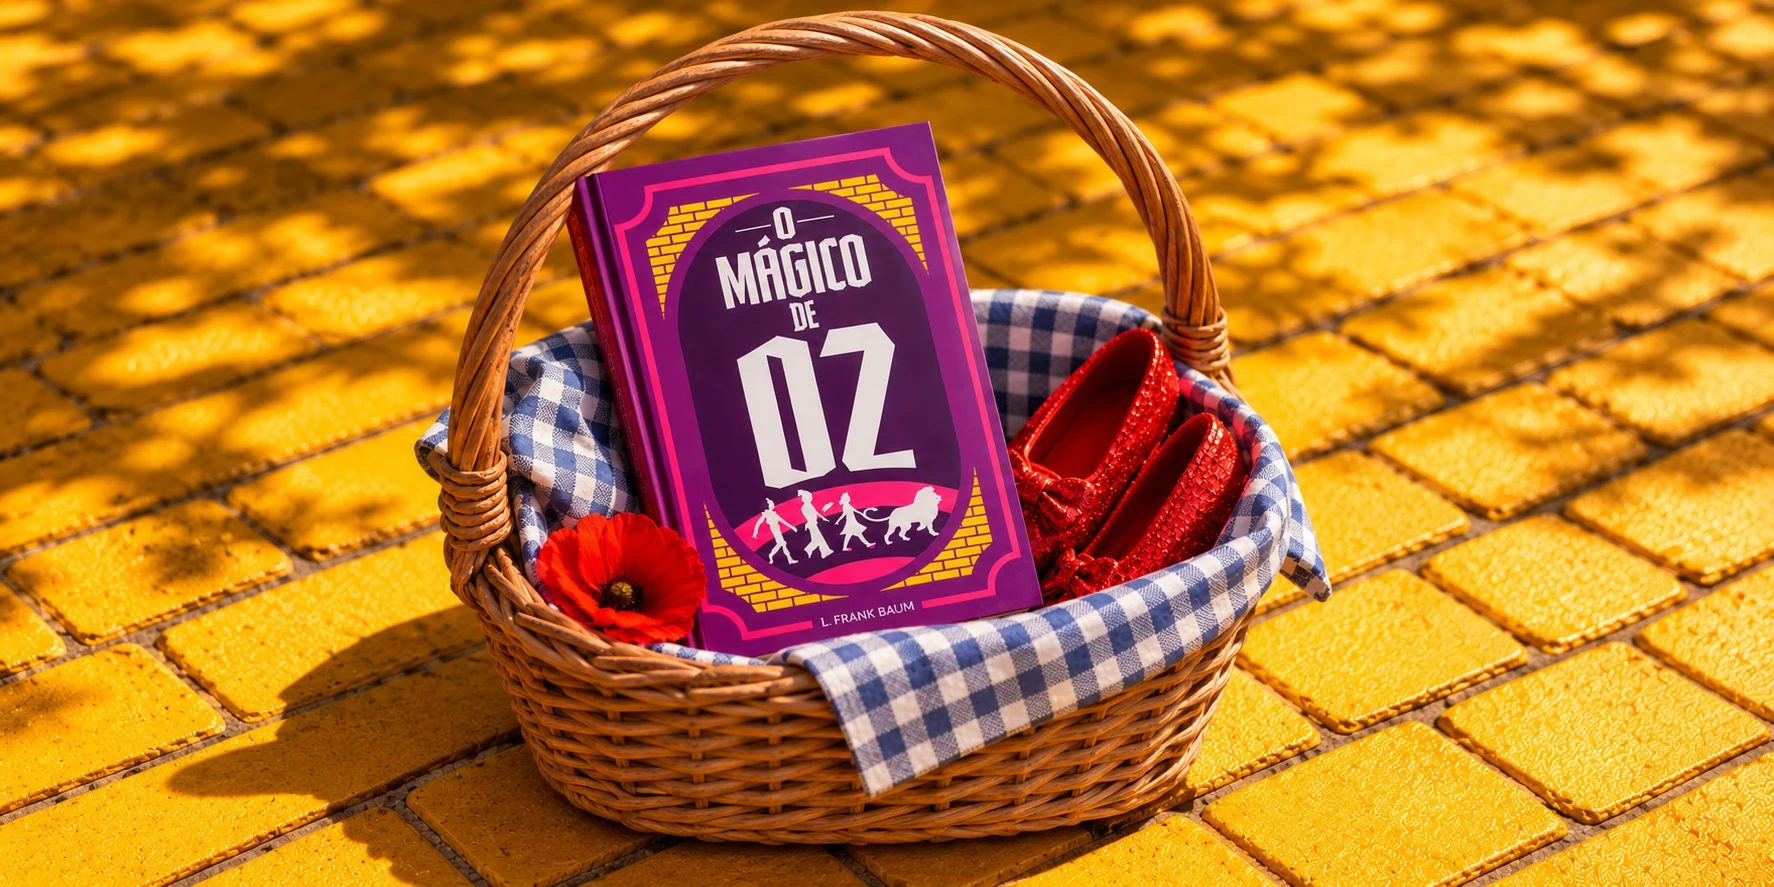
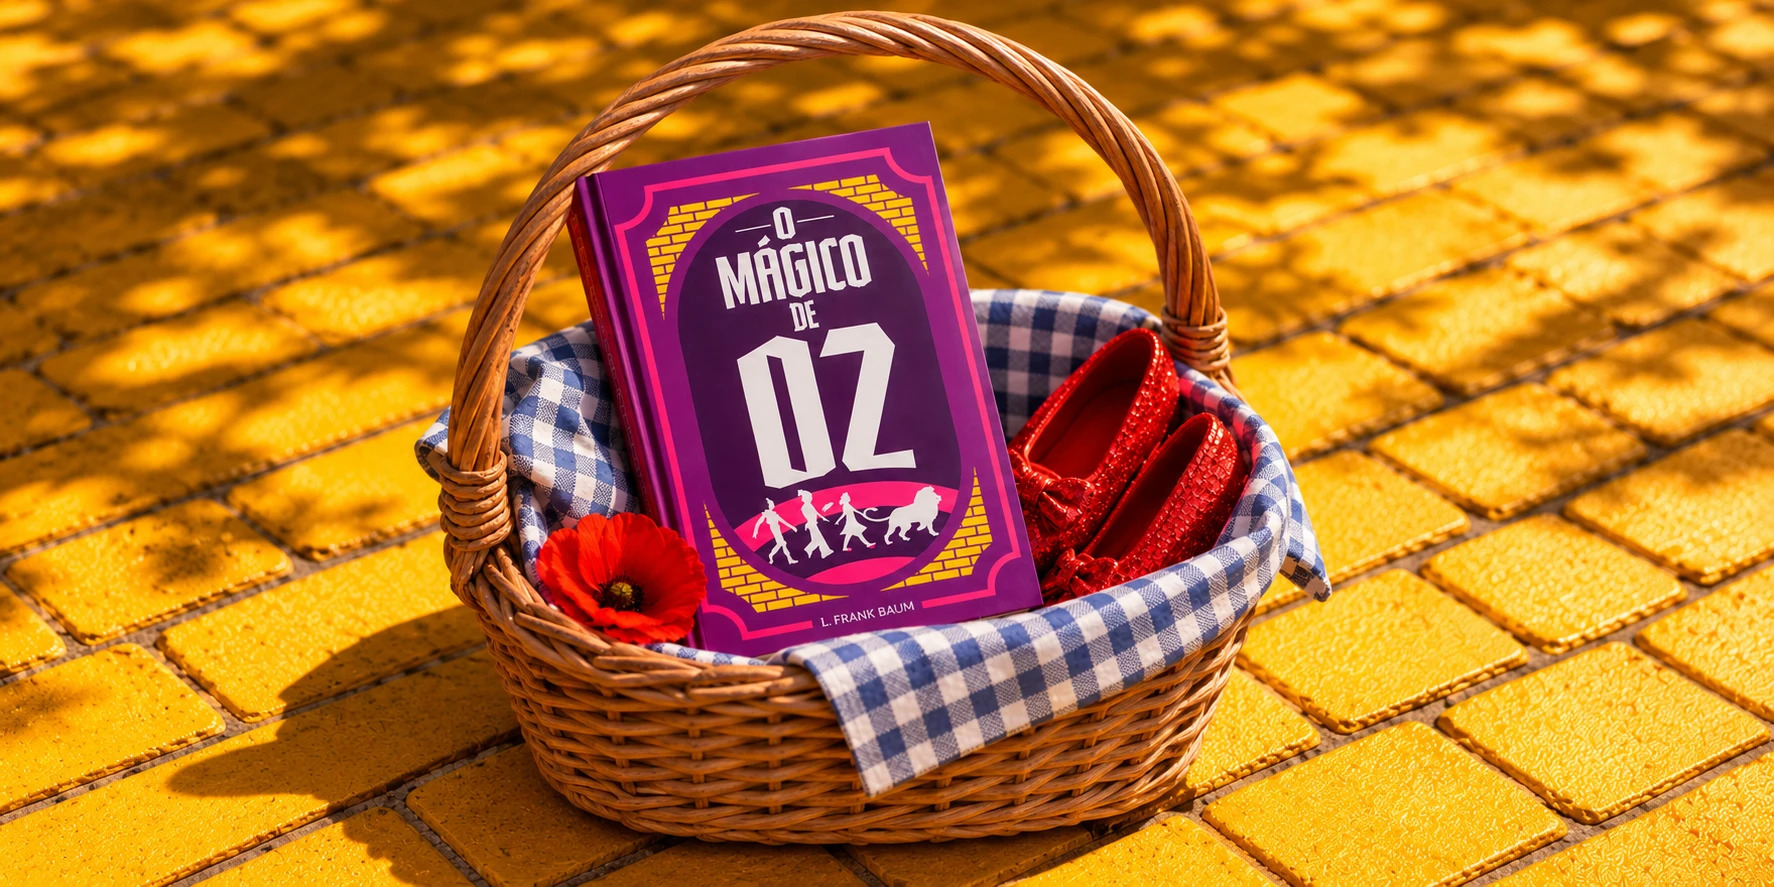
Mágico de Oz: imagens na resolução original, com mais qualidade
Claude-Session: https://claude.ai/code/session_01PWgH4yL31jixagVJagumhv

Changed region(s): [[0.5271, 0.6088, 0.5581, 0.6392], [0.403, 0.6392, 0.434, 0.6697], [0.372, 0.2435, 0.403, 0.274]]

diff --git a/projetos/magico-de-oz.html b/projetos/magico-de-oz.html
@@ -15,9 +15,9 @@
   <link rel="icon" href="../img/favicon-192.png?v=4" sizes="192x192" type="image/png">
   <link rel="icon" href="../img/favicon-32.png?v=4" sizes="32x32" type="image/png">
   <link rel="apple-touch-icon" href="../img/apple-touch-icon.png?v=4">
-  <link rel="stylesheet" href="../css/style.css?v=112">
-  <link rel="stylesheet" href="../css/brand.css?v=112">
-  <link rel="stylesheet" href="../css/projeto.css?v=112">
+  <link rel="stylesheet" href="../css/style.css?v=113">
+  <link rel="stylesheet" href="../css/brand.css?v=113">
+  <link rel="stylesheet" href="../css/projeto.css?v=113">
 </head>
 <body class="page-oz">
 
@@ -61,7 +61,7 @@
     </div>
 
     <!-- Imagens: alternam página cheia e dupla (duplas em 3:2, sem cortar) -->
-    <div class="media-frame"><img class="media media--full" src="../img/oz/livro-frente.jpg" alt="Livro O Mágico de Oz em pé, capa de frente" loading="lazy"></div>
+    <div class="media-frame"><img class="media media--full" src="../img/oz/livro-frente.jpg?v=2" alt="Livro O Mágico de Oz em pé, capa de frente" loading="lazy"></div>
 
     </div>
 
@@ -75,8 +75,8 @@
       </section>
 
       <div class="gallery gallery--2">
-        <img class="media" src="../img/oz/miolo-cap1-ciclone.jpg" alt="Miolo: abertura do capítulo 1, O Ciclone" loading="lazy">
-        <img class="media" src="../img/oz/livro-inclinado.jpg" alt="Livro O Mágico de Oz inclinado sobre fundo amarelo" loading="lazy">
+        <img class="media" src="../img/oz/miolo-cap1-ciclone.jpg?v=2" alt="Miolo: abertura do capítulo 1, O Ciclone" loading="lazy">
+        <img class="media" src="../img/oz/livro-inclinado.jpg?v=2" alt="Livro O Mágico de Oz inclinado sobre fundo amarelo" loading="lazy">
   
     </div>
 
@@ -132,21 +132,21 @@
 }
     </script>
 
-    <div class="media-frame"><img class="media media--full" src="../img/oz/livro-aberto-capa.jpg" alt="Capa, lombada e contracapa do livro abertas" loading="lazy"></div>
+    <div class="media-frame"><img class="media media--full" src="../img/oz/livro-aberto-capa.jpg?v=2" alt="Capa, lombada e contracapa do livro abertas" loading="lazy"></div>
 
     <div class="container">
       <div class="gallery gallery--2">
-        <img class="media" src="../img/oz/miolo-cap3-espantalho.jpg" alt="Miolo: abertura do capítulo 3, Como Dorothy salvou o Espantalho" loading="lazy">
-        <img class="media" src="../img/oz/capa-close.jpg" alt="Detalhe da capa" loading="lazy">
+        <img class="media" src="../img/oz/miolo-cap3-espantalho.jpg?v=2" alt="Miolo: abertura do capítulo 3, Como Dorothy salvou o Espantalho" loading="lazy">
+        <img class="media" src="../img/oz/capa-close.jpg?v=2" alt="Detalhe da capa" loading="lazy">
       </div>
     </div>
 
-    <div class="media-frame"><img class="media media--full" src="../img/oz/lombada-capa.jpg" alt="Livro deitado mostrando a lombada e a capa" loading="lazy"></div>
+    <div class="media-frame"><img class="media media--full" src="../img/oz/lombada-capa.jpg?v=2" alt="Livro deitado mostrando a lombada e a capa" loading="lazy"></div>
 
     <div class="container">
       <div class="gallery gallery--2">
-        <img class="media" src="../img/oz/capa-contracapa.jpg" alt="Capa e contracapa lado a lado" loading="lazy">
-        <img class="media" src="../img/oz/capa-e-cap4.jpg" alt="Livro fechado ao lado do miolo aberto no capítulo 4, A Estrada pela Floresta" loading="lazy">
+        <img class="media" src="../img/oz/capa-contracapa.jpg?v=2" alt="Capa e contracapa lado a lado" loading="lazy">
+        <img class="media" src="../img/oz/capa-e-cap4.jpg?v=2" alt="Livro fechado ao lado do miolo aberto no capítulo 4, A Estrada pela Floresta" loading="lazy">
       </div>
     </div>
 
@@ -204,10 +204,10 @@
       <p>@2026 victor fávaro. <strong>all rights reserved.</strong></p>
     </div>
   </footer>
-  <script src="../js/brand.js?v=112" defer></script>
+  <script src="../js/brand.js?v=113" defer></script>
   <script src="../js/oz-capa.js?v=2" defer></script>
   <script src="../js/livro.js?v=1" defer></script>
-  <script src="../js/motion.js?v=112" defer></script>
-  <script src="../js/projeto.js?v=112" defer></script>
+  <script src="../js/motion.js?v=113" defer></script>
+  <script src="../js/projeto.js?v=113" defer></script>
 </body>
 </html>

diff --git a/work.html b/work.html
@@ -15,7 +15,7 @@
   <link rel="icon" href="img/favicon-192.png?v=4" sizes="192x192" type="image/png">
   <link rel="icon" href="img/favicon-32.png?v=4" sizes="32x32" type="image/png">
   <link rel="apple-touch-icon" href="img/apple-touch-icon.png?v=4">
-  <link rel="stylesheet" href="css/style.css?v=112">
+  <link rel="stylesheet" href="css/style.css?v=113">
 </head>
 <body>
 
@@ -59,7 +59,7 @@
       </div>
     </section>
     <section class="project-row project-row--oz project-row--photo">
-      <picture><source media="(max-width: 900px)" srcset="img/oz/cesta-faixa-mobile.jpg"><img class="project-row__bg" src="img/oz/cesta-faixa.jpg" alt="Livro O Mágico de Oz numa cesta com os sapatinhos vermelhos, sobre a estrada de tijolos amarelos" width="1916" height="821" style="object-position: 20% 40%"></picture>
+      <picture><source media="(max-width: 900px)" srcset="img/oz/cesta-faixa-mobile.jpg?v=2"><img class="project-row__bg" src="img/oz/cesta-faixa.jpg?v=2" alt="Livro O Mágico de Oz numa cesta com os sapatinhos vermelhos, sobre a estrada de tijolos amarelos" width="1916" height="821" style="object-position: 20% 40%"></picture>
       <div class="container">
         <img class="project-row__visual project-row__visual--ozcapa" src="img/oz/capa-anim.svg" alt="Capa do livro O Mágico de Oz" width="439" height="652">
         <article class="card">
@@ -125,6 +125,6 @@
       <p>@2026 victor fávaro. <strong>all rights reserved.</strong></p>
     </div>
   </footer>
-  <script src="js/motion.js?v=112" defer></script>
+  <script src="js/motion.js?v=113" defer></script>
 </body>
 </html>

diff --git a/projetos/metropole.html b/projetos/metropole.html
@@ -15,11 +15,11 @@
   <link rel="icon" href="../img/favicon-192.png?v=4" sizes="192x192" type="image/png">
   <link rel="icon" href="../img/favicon-32.png?v=4" sizes="32x32" type="image/png">
   <link rel="apple-touch-icon" href="../img/apple-touch-icon.png?v=4">
-  <link rel="stylesheet" href="../css/style.css?v=112">
+  <link rel="stylesheet" href="../css/style.css?v=113">
   <link rel="preload" href="../fonts/UrbanSpace-Regular.woff2" as="font" type="font/woff2" crossorigin>
   <link rel="stylesheet" href="https://use.typekit.net/uso2liw.css">
-  <link rel="stylesheet" href="../css/brand.css?v=112">
-  <link rel="stylesheet" href="../css/projeto.css?v=112">
+  <link rel="stylesheet" href="../css/brand.css?v=113">
+  <link rel="stylesheet" href="../css/projeto.css?v=113">
 </head>
 <body class="page-metropole">
 
@@ -333,9 +333,9 @@
 }
     </script>
   <script src="../js/capa-anim.js?v=1" defer></script>
-  <script src="../js/lineup.js?v=112" defer></script>
-  <script src="../js/brand.js?v=112" defer></script>
-  <script src="../js/motion.js?v=112" defer></script>
-  <script src="../js/projeto.js?v=112" defer></script>
+  <script src="../js/lineup.js?v=113" defer></script>
+  <script src="../js/brand.js?v=113" defer></script>
+  <script src="../js/motion.js?v=113" defer></script>
+  <script src="../js/projeto.js?v=113" defer></script>
 </body>
 </html>

diff --git a/projetos/helena.html b/projetos/helena.html
@@ -17,9 +17,9 @@
   <link rel="apple-touch-icon" href="../img/apple-touch-icon.png?v=4">
   <!-- Adobe Fonts (Web Project): Area e Degular -->
   <link rel="stylesheet" href="https://use.typekit.net/uso2liw.css">
-  <link rel="stylesheet" href="../css/style.css?v=112">
-  <link rel="stylesheet" href="../css/brand.css?v=112">
-  <link rel="stylesheet" href="../css/projeto.css?v=112">
+  <link rel="stylesheet" href="../css/style.css?v=113">
+  <link rel="stylesheet" href="../css/brand.css?v=113">
+  <link rel="stylesheet" href="../css/projeto.css?v=113">
 </head>
 <body class="page-helena">
 
@@ -291,9 +291,9 @@
       <p>@2026 victor fávaro. <strong>all rights reserved.</strong></p>
     </div>
   </footer>
-  <script src="../js/brand.js?v=112" defer></script>
-  <script src="../js/motion.js?v=112" defer></script>
-  <script src="../js/projeto.js?v=112" defer></script>
-  <script src="../js/personal.js?v=112" defer></script>
+  <script src="../js/brand.js?v=113" defer></script>
+  <script src="../js/motion.js?v=113" defer></script>
+  <script src="../js/projeto.js?v=113" defer></script>
+  <script src="../js/personal.js?v=113" defer></script>
 </body>
 </html>

diff --git a/projetos/abf-expo-2026.html b/projetos/abf-expo-2026.html
@@ -15,9 +15,9 @@
   <link rel="icon" href="../img/favicon-192.png?v=4" sizes="192x192" type="image/png">
   <link rel="icon" href="../img/favicon-32.png?v=4" sizes="32x32" type="image/png">
   <link rel="apple-touch-icon" href="../img/apple-touch-icon.png?v=4">
-  <link rel="stylesheet" href="../css/style.css?v=112">
-  <link rel="stylesheet" href="../css/brand.css?v=112">
-  <link rel="stylesheet" href="../css/projeto.css?v=112">
+  <link rel="stylesheet" href="../css/style.css?v=113">
+  <link rel="stylesheet" href="../css/brand.css?v=113">
+  <link rel="stylesheet" href="../css/projeto.css?v=113">
 </head>
 <body class="page-abf">
 
@@ -153,8 +153,8 @@
       <p>@2026 victor fávaro. <strong>all rights reserved.</strong></p>
     </div>
   </footer>
-  <script src="../js/galeria.js?v=112" defer></script>
-  <script src="../js/motion.js?v=112" defer></script>
-  <script src="../js/projeto.js?v=112" defer></script>
+  <script src="../js/galeria.js?v=113" defer></script>
+  <script src="../js/motion.js?v=113" defer></script>
+  <script src="../js/projeto.js?v=113" defer></script>
 </body>
 </html>

diff --git a/projetos/pia-brinquedos.html b/projetos/pia-brinquedos.html
@@ -15,9 +15,9 @@
   <link rel="icon" href="../img/favicon-192.png?v=4" sizes="192x192" type="image/png">
   <link rel="icon" href="../img/favicon-32.png?v=4" sizes="32x32" type="image/png">
   <link rel="apple-touch-icon" href="../img/apple-touch-icon.png?v=4">
-  <link rel="stylesheet" href="../css/style.css?v=112">
-  <link rel="stylesheet" href="../css/brand.css?v=112">
-  <link rel="stylesheet" href="../css/projeto.css?v=112">
+  <link rel="stylesheet" href="../css/style.css?v=113">
+  <link rel="stylesheet" href="../css/brand.css?v=113">
+  <link rel="stylesheet" href="../css/projeto.css?v=113">
 </head>
 <body class="page-pia">
 
@@ -281,8 +281,8 @@
       <p>@2026 victor fávaro. <strong>all rights reserved.</strong></p>
     </div>
   </footer>
-  <script src="../js/brand.js?v=112" defer></script>
-  <script src="../js/motion.js?v=112" defer></script>
-  <script src="../js/projeto.js?v=112" defer></script>
+  <script src="../js/brand.js?v=113" defer></script>
+  <script src="../js/motion.js?v=113" defer></script>
+  <script src="../js/projeto.js?v=113" defer></script>
 </body>
 </html>

diff --git a/projetos/como-voce-quer-que-eu-te-chame.html b/projetos/como-voce-quer-que-eu-te-chame.html
@@ -15,9 +15,9 @@
   <link rel="icon" href="../img/favicon-192.png?v=4" sizes="192x192" type="image/png">
   <link rel="icon" href="../img/favicon-32.png?v=4" sizes="32x32" type="image/png">
   <link rel="apple-touch-icon" href="../img/apple-touch-icon.png?v=4">
-  <link rel="stylesheet" href="../css/style.css?v=112">
-  <link rel="stylesheet" href="../css/brand.css?v=112">
-  <link rel="stylesheet" href="../css/projeto.css?v=112">
+  <link rel="stylesheet" href="../css/style.css?v=113">
+  <link rel="stylesheet" href="../css/brand.css?v=113">
+  <link rel="stylesheet" href="../css/projeto.css?v=113">
 </head>
 <body>
 
@@ -127,8 +127,8 @@
       <p>@2026 victor fávaro. <strong>all rights reserved.</strong></p>
     </div>
   </footer>
-  <script src="../js/brand.js?v=112" defer></script>
-  <script src="../js/motion.js?v=112" defer></script>
-  <script src="../js/projeto.js?v=112" defer></script>
+  <script src="../js/brand.js?v=113" defer></script>
+  <script src="../js/motion.js?v=113" defer></script>
+  <script src="../js/projeto.js?v=113" defer></script>
 </body>
 </html>

diff --git a/projetos/qual-emocao.html b/projetos/qual-emocao.html
@@ -15,9 +15,9 @@
   <link rel="icon" href="../img/favicon-192.png?v=4" sizes="192x192" type="image/png">
   <link rel="icon" href="../img/favicon-32.png?v=4" sizes="32x32" type="image/png">
   <link rel="apple-touch-icon" href="../img/apple-touch-icon.png?v=4">
-  <link rel="stylesheet" href="../css/style.css?v=112">
-  <link rel="stylesheet" href="../css/brand.css?v=112">
-  <link rel="stylesheet" href="../css/projeto.css?v=112">
+  <link rel="stylesheet" href="../css/style.css?v=113">
+  <link rel="stylesheet" href="../css/brand.css?v=113">
+  <link rel="stylesheet" href="../css/projeto.css?v=113">
 </head>
 <body>
 
@@ -227,8 +227,8 @@
       <p>@2026 victor fávaro. <strong>all rights reserved.</strong></p>
     </div>
   </footer>
-  <script src="../js/brand.js?v=112" defer></script>
-  <script src="../js/motion.js?v=112" defer></script>
-  <script src="../js/projeto.js?v=112" defer></script>
+  <script src="../js/brand.js?v=113" defer></script>
+  <script src="../js/motion.js?v=113" defer></script>
+  <script src="../js/projeto.js?v=113" defer></script>
 </body>
 </html>

diff --git a/personal.html b/personal.html
@@ -14,8 +14,8 @@
   <link rel="icon" href="img/favicon-192.png?v=4" sizes="192x192" type="image/png">
   <link rel="icon" href="img/favicon-32.png?v=4" sizes="32x32" type="image/png">
   <link rel="apple-touch-icon" href="img/apple-touch-icon.png?v=4">
-  <link rel="stylesheet" href="css/style.css?v=112">
-  <link rel="stylesheet" href="css/brand.css?v=112">
+  <link rel="stylesheet" href="css/style.css?v=113">
+  <link rel="stylesheet" href="css/brand.css?v=113">
 </head>
 <body>
 
@@ -287,7 +287,7 @@
       <p>@2026 victor fávaro. <strong>all rights reserved.</strong></p>
     </div>
   </footer>
-  <script src="js/personal.js?v=112" defer></script>
-  <script src="js/motion.js?v=112" defer></script>
+  <script src="js/personal.js?v=113" defer></script>
+  <script src="js/motion.js?v=113" defer></script>
 </body>
 </html>

diff --git a/about.html b/about.html
@@ -14,8 +14,8 @@
   <link rel="icon" href="img/favicon-192.png?v=4" sizes="192x192" type="image/png">
   <link rel="icon" href="img/favicon-32.png?v=4" sizes="32x32" type="image/png">
   <link rel="apple-touch-icon" href="img/apple-touch-icon.png?v=4">
-  <link rel="stylesheet" href="css/style.css?v=112">
-  <link rel="stylesheet" href="css/about.css?v=112">
+  <link rel="stylesheet" href="css/style.css?v=113">
+  <link rel="stylesheet" href="css/about.css?v=113">
 </head>
 <body class="page-about">
 
@@ -178,6 +178,6 @@
       <p>@2026 victor fávaro. <strong>all rights reserved.</strong></p>
     </div>
   </footer>
-  <script src="js/motion.js?v=112" defer></script>
+  <script src="js/motion.js?v=113" defer></script>
 </body>
 </html>

diff --git a/index.html b/index.html
@@ -15,8 +15,8 @@
   <link rel="icon" href="img/favicon-192.png?v=4" sizes="192x192" type="image/png">
   <link rel="icon" href="img/favicon-32.png?v=4" sizes="32x32" type="image/png">
   <link rel="apple-touch-icon" href="img/apple-touch-icon.png?v=4">
-  <link rel="stylesheet" href="css/style.css?v=112">
-  <link rel="stylesheet" href="css/about.css?v=112">
+  <link rel="stylesheet" href="css/style.css?v=113">
+  <link rel="stylesheet" href="css/about.css?v=113">
 </head>
 <body>
 
@@ -113,6 +113,6 @@
       <p>@2026 victor fávaro. <strong>all rights reserved.</strong></p>
     </div>
   </footer>
-  <script src="js/motion.js?v=112" defer></script>
+  <script src="js/motion.js?v=113" defer></script>
 </body>
 </html>

diff --git a/css/style.css b/css/style.css
@@ -448,7 +448,7 @@ h1, h2, h3, p { margin: 0; }
   padding: calc(160 * var(--u)) var(--gutter) calc(60 * var(--u));
 }
 .project-hero--black { background: var(--black); }
-.project-hero--oz { background: #e5c823 url("../img/oz/cesta-sapatinhos-larga.jpg") center 40% / cover no-repeat; }
+.project-hero--oz { background: #e5c823 url("../img/oz/cesta-sapatinhos-larga.jpg?v=2") center 40% / cover no-repeat; }
 .project-hero--metropole { background: #b10d14 url("../img/row-metropole.jpg") right center / cover no-repeat; }
 .project-hero--kv { background: linear-gradient(104.16deg, #58aeff .34%, #fff 45.7%, #ff589e 99.66%); }
 .project-hero--green { background: var(--green); }
